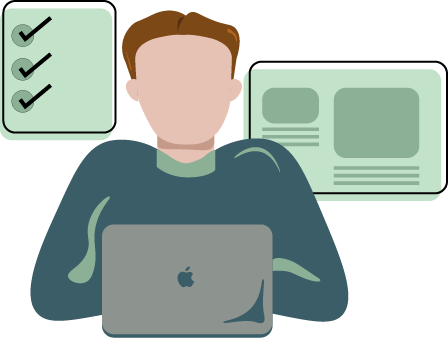
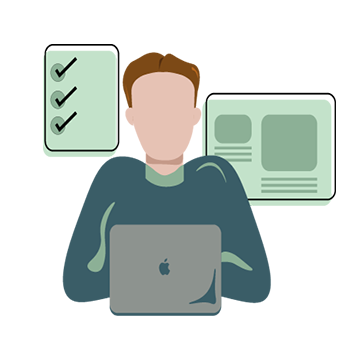
boostrap weird img

diff --git a/src/components/Bio.jsx b/src/components/Bio.jsx
@@ -79,10 +79,6 @@ const Styled = styled.div`
 
 	}
 
-	#profile {
-		max-width: 400px; 
-	}
-
 	.cards {
 		background-color: #3A5D67; 
 		position: relative; 
@@ -104,10 +100,10 @@ const Styled = styled.div`
 	}
 
 	.card-image{
-		max-height: 280px; 
+
 	}
 	.card-img-container{
-		min-height: 300px
+
 	}
 
 	.list-group-item {
@@ -162,7 +158,7 @@ class Bio extends Component {
 					<Container>
 						<Row className="mb-4">
 							<Col md>
-								<div className="text-center mx-auto d-block w-100">
+								<div className="text-center mx-auto w-100">
 									<h1 className="title">Hello, I'm Nathan</h1>
 									<h3>Software Developer, Computer Science </h3>
 									<img
@@ -170,7 +166,7 @@ class Bio extends Component {
 										alt="profile"
 										id="profile"
 										src={me}
-										className="img-fluid"
+										className="img-fluid img-responsive"
 									></img>
 								</div>
 							</Col>
@@ -269,10 +265,10 @@ class InformationCard extends Component {
 			listGroup.push(<ListGroupItem key={index}>{value}</ListGroupItem>);
 		}
 		return (
-			<Card className="text-center mx-auto shadow">
-				<div className="my-auto card-img-container">
+			<Card className="text-center h-100 mx-auto shadow">
+				<div className="my-auto card-img-container w-100">
 					<Card.Img
-						className="img-responsive card-image mb-2 p-3"
+						className="img-responsive img-fluid card-image mb-2 p-3"
 						src={this.props.img}
 					></Card.Img>
 				</div>
